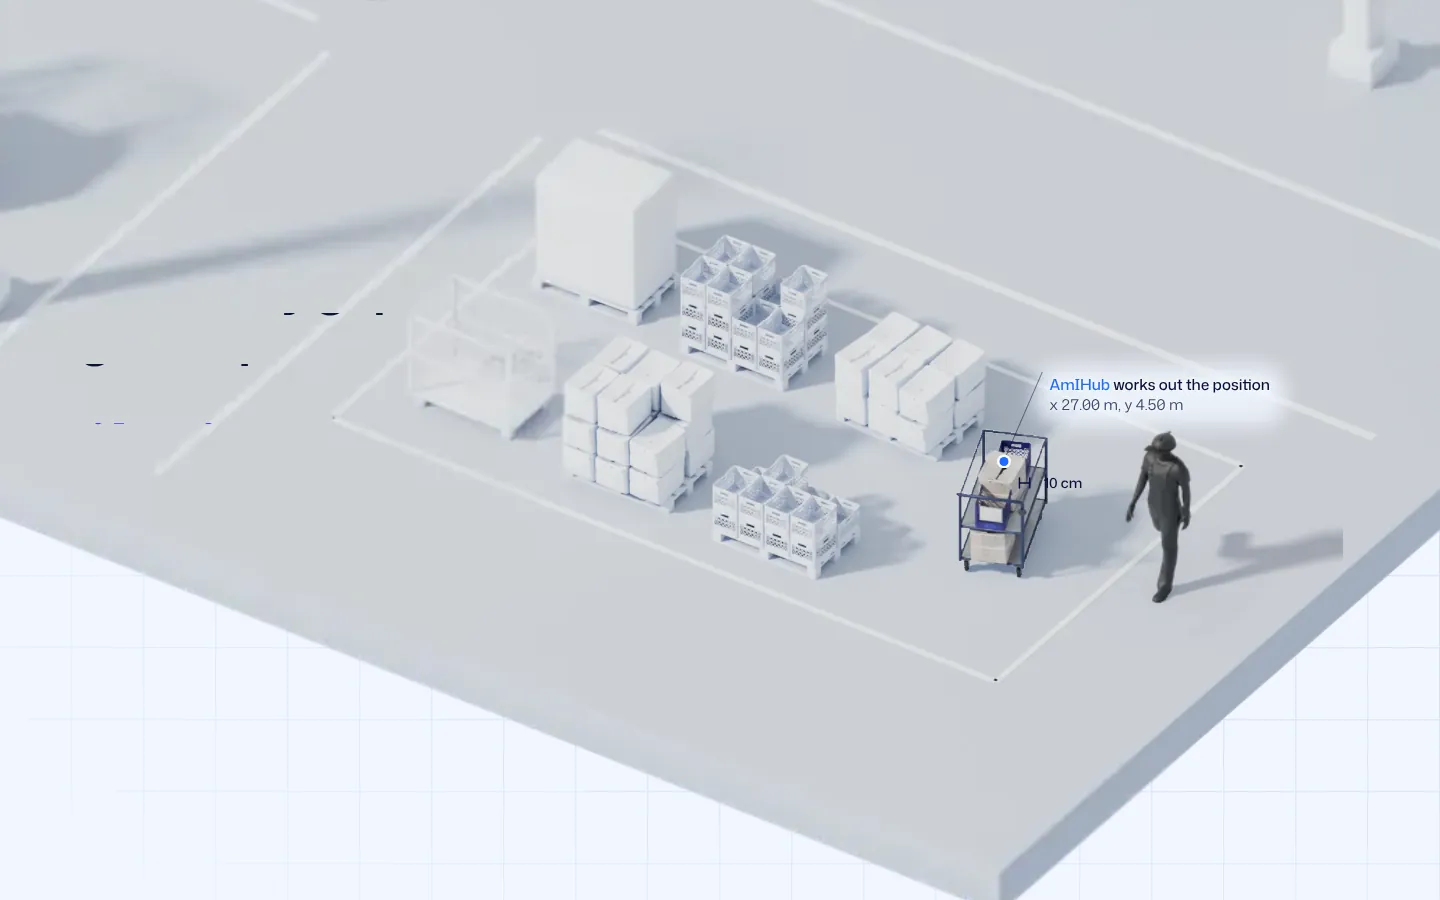
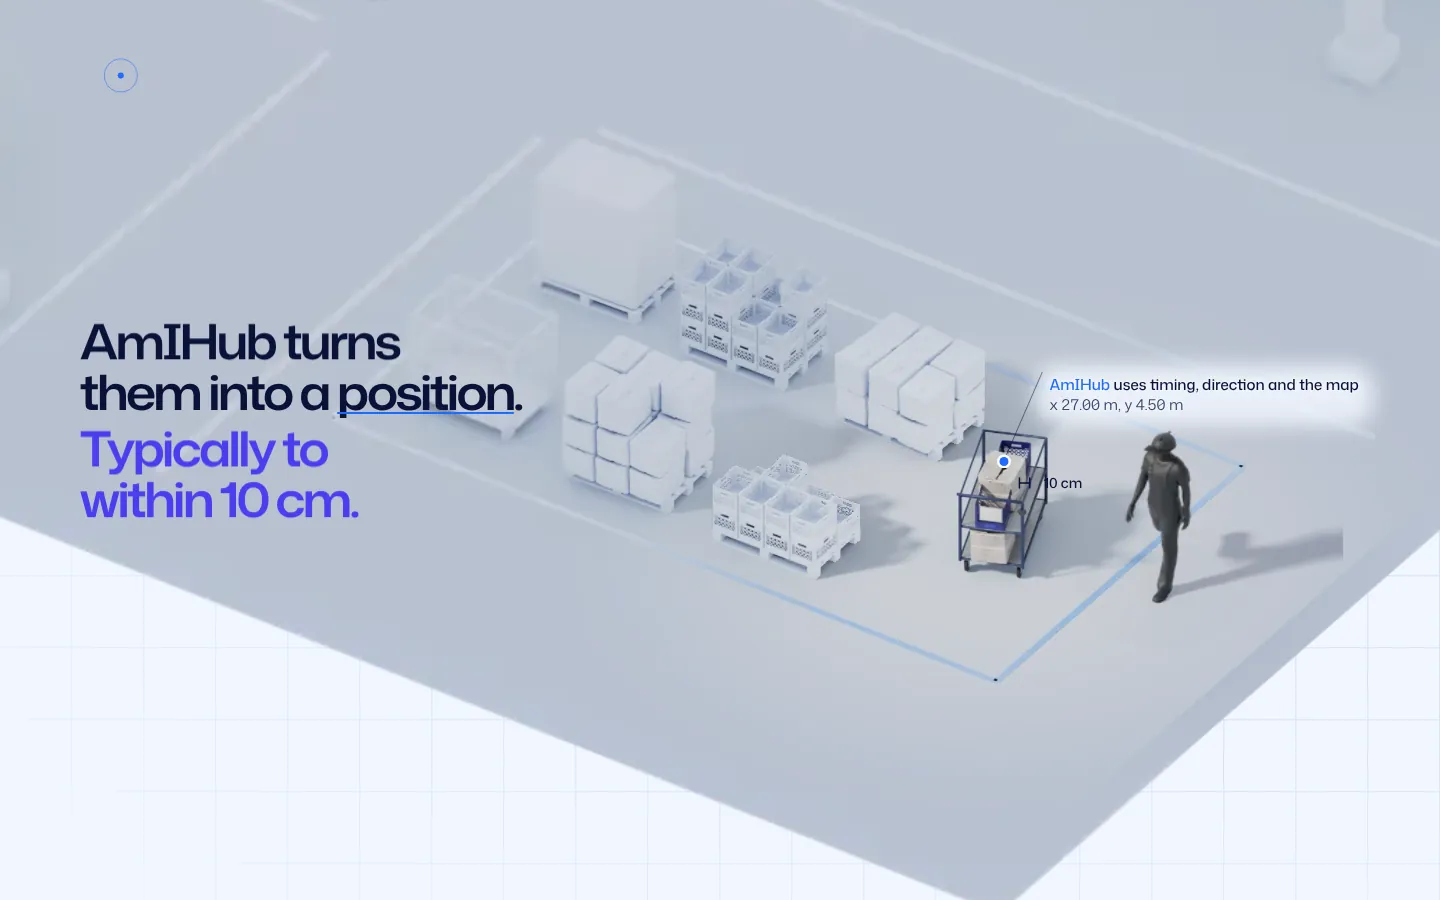
Explainer round 4: Lost under a flat sky, sunlight arrives with location; fallback pictures retaken
The unlocated plates are rendered with the sun off. Sunlight opens around the
first located trolley and crosses the floor as everything is tagged. No extra
pictures are loaded.

Claude-Session: https://claude.ai/code/session_01YEydMJrMXd25Uxd8C1TWVL

diff --git a/studio/v1/js/floor.js b/studio/v1/js/floor.js
@@ -346,7 +346,7 @@
     'if(uW.x>0.){vec2 u=(uv-uMid.xy)/uMid.zw;if(u.x>0.&&u.x<1.&&u.y>0.&&u.y<1.)c=mix(c,mix(texture2D(tMk,u),texture2D(tMc,u),rv(tMi,u,uTx.y)),edge(u)*uW.x);}' +
     'if(uW.y>0.){vec2 u=(uv-uClose.xy)/uClose.zw;if(u.x>0.&&u.x<1.&&u.y>0.&&u.y<1.)c=mix(c,mix(texture2D(tCk,u),texture2D(tCc,u),rv(tCi,u,uTx.z)),edge(u)*uW.y);}' +
     'if(uW.z>0.){vec2 u=(uv-uMac.xy)/uMac.zw;if(u.x>0.&&u.x<1.&&u.y>0.&&u.y<1.)c=mix(c,mix(texture2D(tXk,u),texture2D(tXc,u),rv(tXi,u,uTx.w)),edge(u)*uW.z);}' +
-    'c.rgb*=mix(vec3(.925,.94,.965),vec3(1.),max(gF,uDay));gl_FragColor=c;}';
+    'c.rgb*=mix(vec3(.9,.92,.955),vec3(1.),max(gF,uDay));gl_FragColor=c;}';
   var VS2 = 'attribute vec2 a;uniform vec2 uRes,uA,uF;uniform float uPpm;uniform vec4 uR;varying vec2 vU,vM;void main(){vU=a;vM=uR.xy+a*uR.zw;vec2 s=uA+(vM-uF)*uPpm;gl_Position=vec4(s.x/uRes.x*2.-1.,1.-s.y/uRes.y*2.,0.,1.);}';
   var FS2 = 'precision highp float;varying vec2 vU,vM;uniform sampler2D tAt,tD;uniform vec2 uCa,uCb,uPl,uDr;uniform float uMix,uAl,uBy,uBd,uTan;' +
     'void main(){vec2 q=clamp(vU,.004,.996)*.125;vec4 c=mix(texture2D(tAt,uCb+q),texture2D(tAt,uCa+q),uMix);vec4 dd=texture2D(tD,vM/uPl);float D=uDr.x+(dd.r*65280.+dd.g*255.)/65535.*(uDr.y-uDr.x);' +
